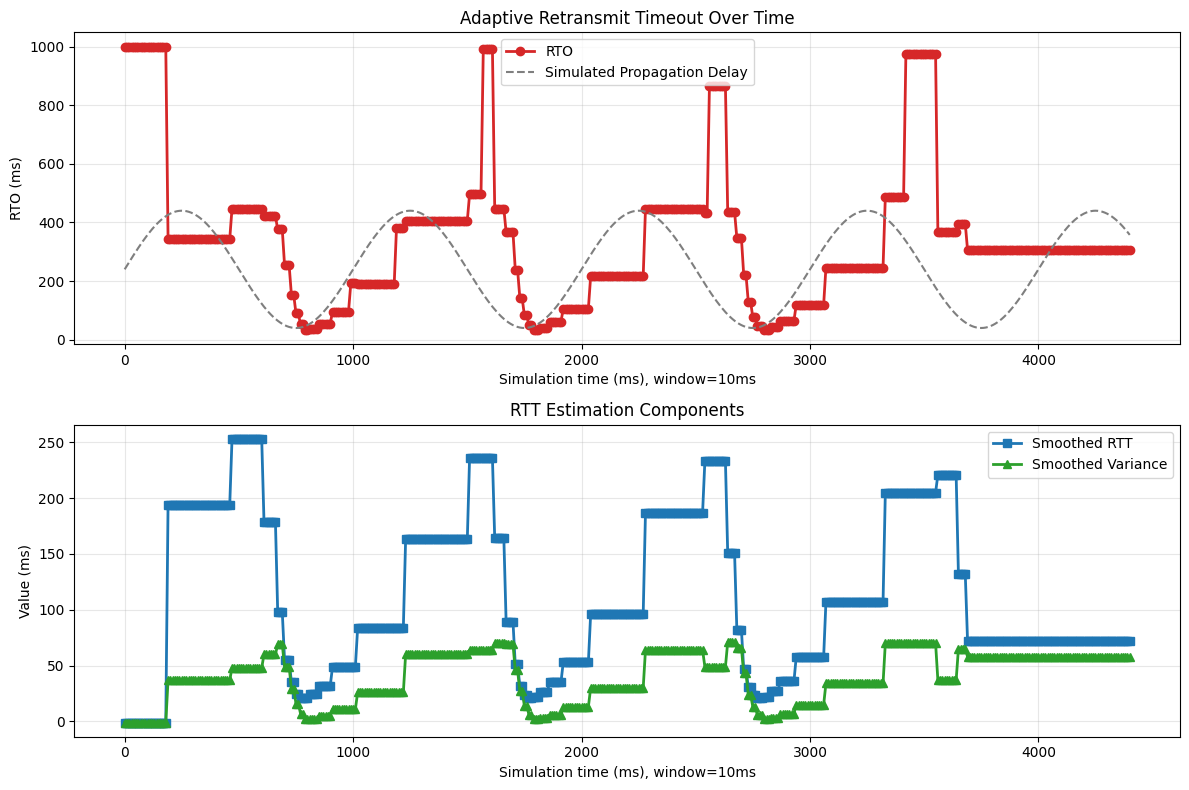
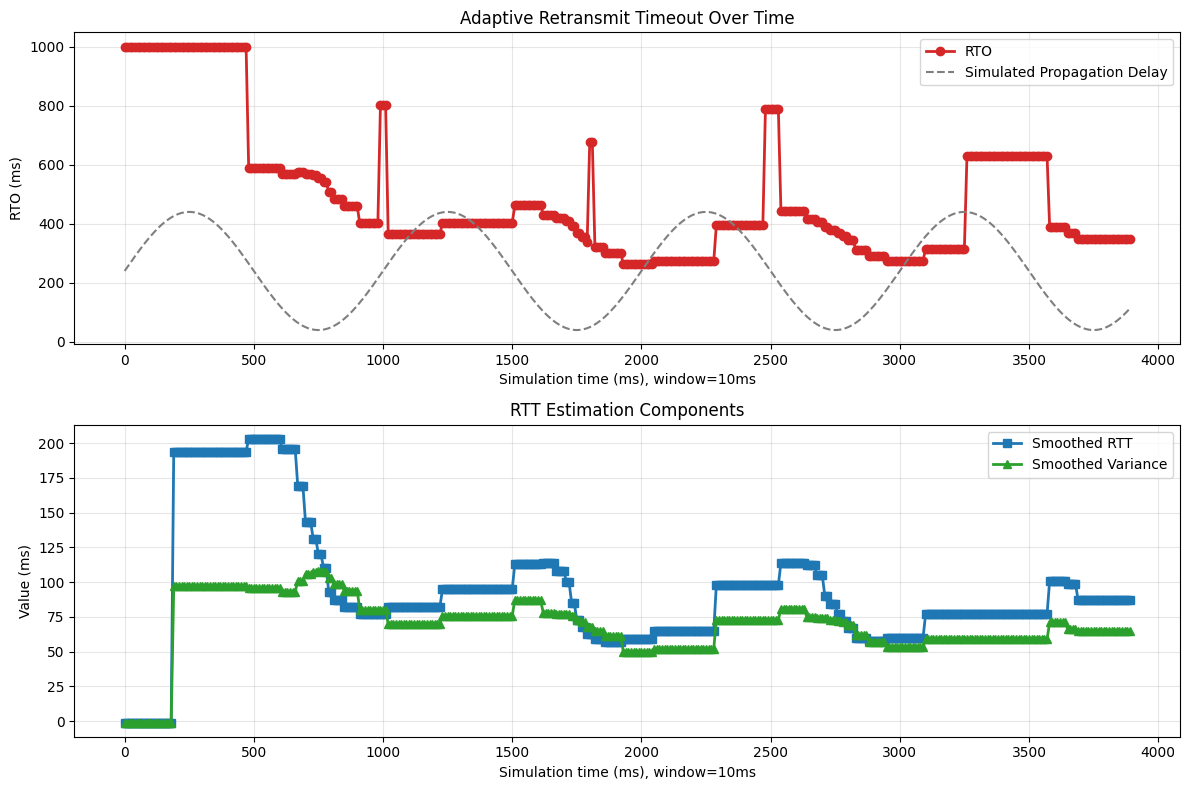
change plots, update plotting files

diff --git a/examples/bottleneck_plot.py b/examples/bottleneck_plot.py
@@ -9,11 +9,14 @@ PROJECT_ROOT = Path(__file__).resolve().parents[1]
 if str(PROJECT_ROOT) not in sys.path:
 	sys.path.insert(0, str(PROJECT_ROOT))
 
+PLOT_OUTPUT = Path(__file__).with_name("bottleneck_histogram.png")
+
+
 from bottleneck import BottleneckNode, NODE_COUNT, SEND_INTERVAL_MS, TARGET_RECEIVES
 from src.index import Channel, Network, NetworkSim
 
 
-WINDOW_MS = 100
+SNAPSHOT_INTERVAL_MS = 100
 LOW_BIT_RATE = 1000 * 8 * 35
 QUEUE_LENGTH = 12
 
@@ -31,7 +34,7 @@ def _pad_histograms(*series: list[int]) -> list[list[int]]:
 
 
 def run_histogram_experiment() -> tuple[list[int], list[int], int]:
-	sim = NetworkSim(seed=13, logging=False, track_analytics=True, snapshot_interval=WINDOW_MS)
+	sim = NetworkSim(seed=13, logging=False, track_analytics=True, snapshot_interval=SNAPSHOT_INTERVAL_MS)
 	net = Network(sim)
 	ch = Channel(
 		max_queue_length=QUEUE_LENGTH,
@@ -60,23 +63,25 @@ def run_histogram_experiment() -> tuple[list[int], list[int], int]:
 	# ch is the only channel (index 0)
 	throughput = [snap[0] for snap in sim.channel_analytics]
 	drops = [snap[1] for snap in sim.channel_analytics]
-	return drops, throughput, WINDOW_MS
+	return drops, throughput, SNAPSHOT_INTERVAL_MS
 
 
-def plot_histograms(drops: list[int], throughput: list[int], window_ms: int) -> None:
+def plot_histograms(drops: list[int], throughput: list[int]) -> None:
 	drops, throughput = _pad_histograms(drops, throughput)
-	x = _build_histogram_x(len(drops), window_ms)
+	x = _build_histogram_x(len(drops), SNAPSHOT_INTERVAL_MS)
 
 	plt.figure(figsize=(13, 7))
-	plt.plot(x, drops, marker="o", linewidth=2, label="Dropped packets / window")
-	plt.plot(x, throughput, marker="s", linewidth=2, label="Throughput packets / window")
+	plt.plot(x, drops, marker="o", linewidth=2, label=f"Dropped packets / {SNAPSHOT_INTERVAL_MS} ms")
+	plt.plot(x, throughput, marker="s", linewidth=2, label=f"Throughput packets / {SNAPSHOT_INTERVAL_MS} ms")
 
 	plt.title("Bottleneck Channel Histogram: Drops vs Throughput")
-	plt.xlabel(f"Simulation time (ms), window={window_ms}ms")
+	plt.xlabel(f"Simulation time (ms)")
 	plt.ylabel("Packets per window")
 	plt.grid(True, alpha=0.3)
 	plt.legend()
 	plt.tight_layout()
+	plt.savefig(PLOT_OUTPUT, dpi=150)
+
 	plt.show()
 
 
@@ -84,7 +89,7 @@ def main() -> None:
 	drops, throughput, window_ms = run_histogram_experiment()
 	print(f"Drop histogram ({window_ms}ms): {drops}")
 	print(f"Throughput histogram ({window_ms}ms): {throughput}")
-	plot_histograms(drops, throughput, window_ms)
+	plot_histograms(drops, throughput)
 
 
 if __name__ == "__main__":